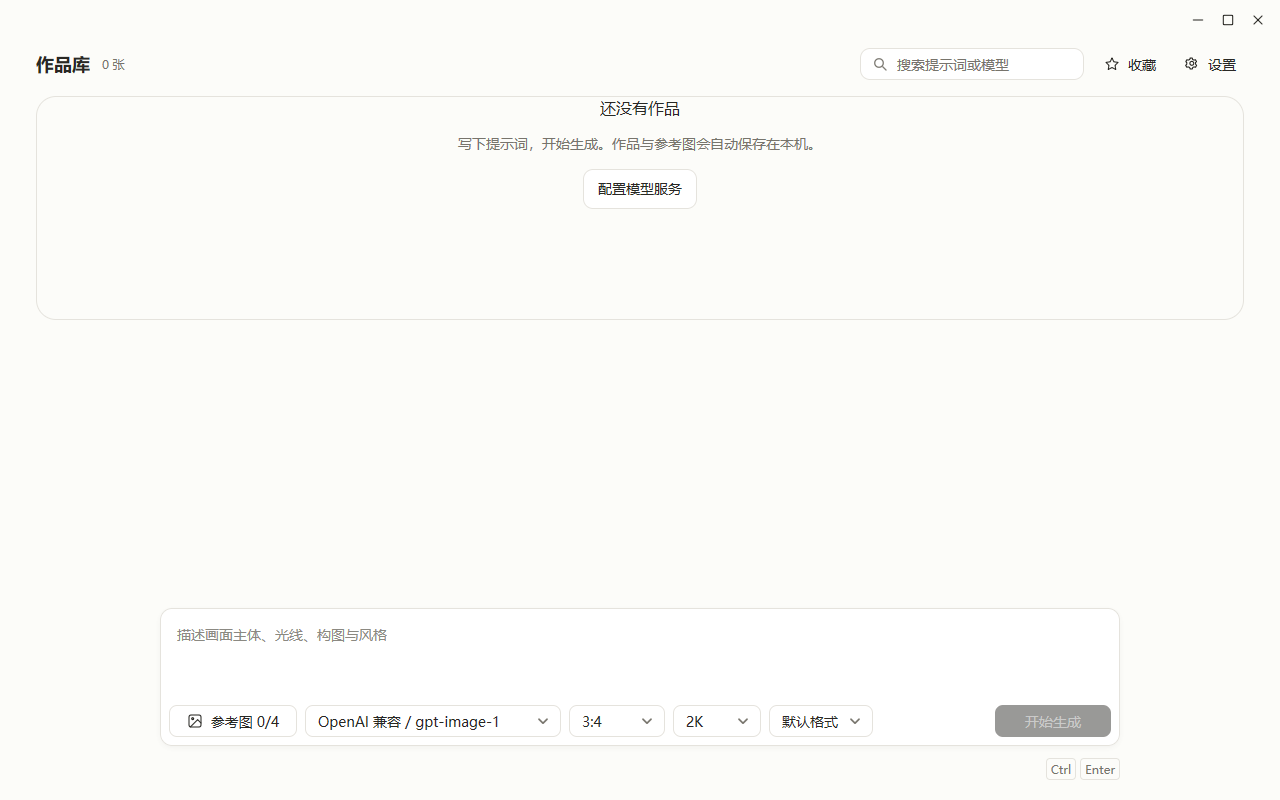
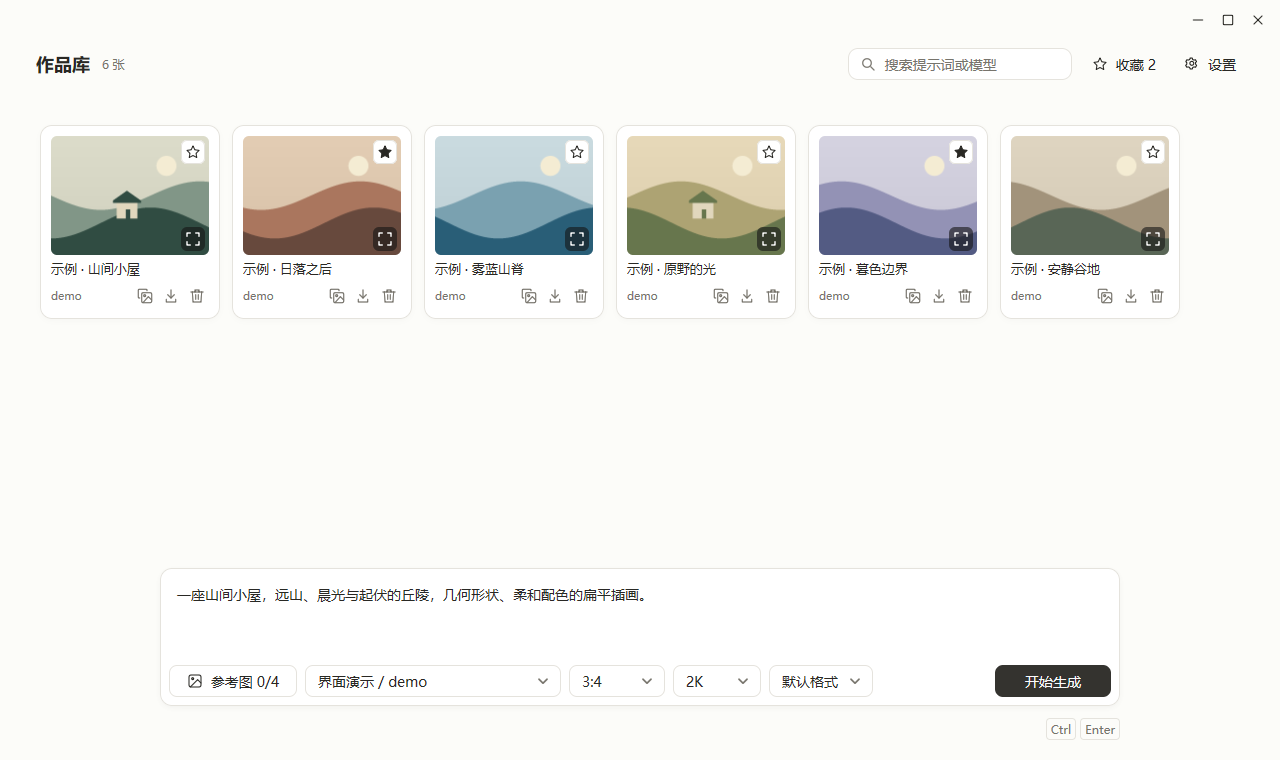
docs: show sample artwork in the README homepage screenshot
Label the gallery and README captions as an interface demo using local sample illustrations.

Assisted-by: Cindy (https://cindy.app)

diff --git a/README.md b/README.md
@@ -6,7 +6,9 @@ Picloom is a native AI image creation app for Windows and macOS, built with Go a
 
 [Download the latest release](https://github.com/JsoonLi/Picloom/releases/latest) · [All releases](https://github.com/JsoonLi/Picloom/releases) · [Report an issue](https://github.com/JsoonLi/Picloom/issues)
 
-![Picloom home screen with the image library and creation area (Chinese interface)](assets/screenshots/home.png)
+![Picloom demo with six sample illustrations and a prompt (Chinese interface)](assets/screenshots/home.png)
+
+*UI demo using local sample illustrations.*
 
 ## Download and install
 

diff --git a/README.zh-CN.md b/README.zh-CN.md
@@ -6,7 +6,9 @@ Picloom 是用 Go 和 MyGo 构建的原生 AI 图像创作桌面应用，支持 
 
 [下载最新版本](https://github.com/JsoonLi/Picloom/releases/latest) · [查看所有版本](https://github.com/JsoonLi/Picloom/releases) · [反馈问题](https://github.com/JsoonLi/Picloom/issues)
 
-![Picloom 首页：作品库与创作区](assets/screenshots/home.png)
+![Picloom 示例首页：六张风景插画与示例提示词](assets/screenshots/home.png)
+
+*界面演示，使用本地示例插画。*
 
 ## 下载与安装
 
